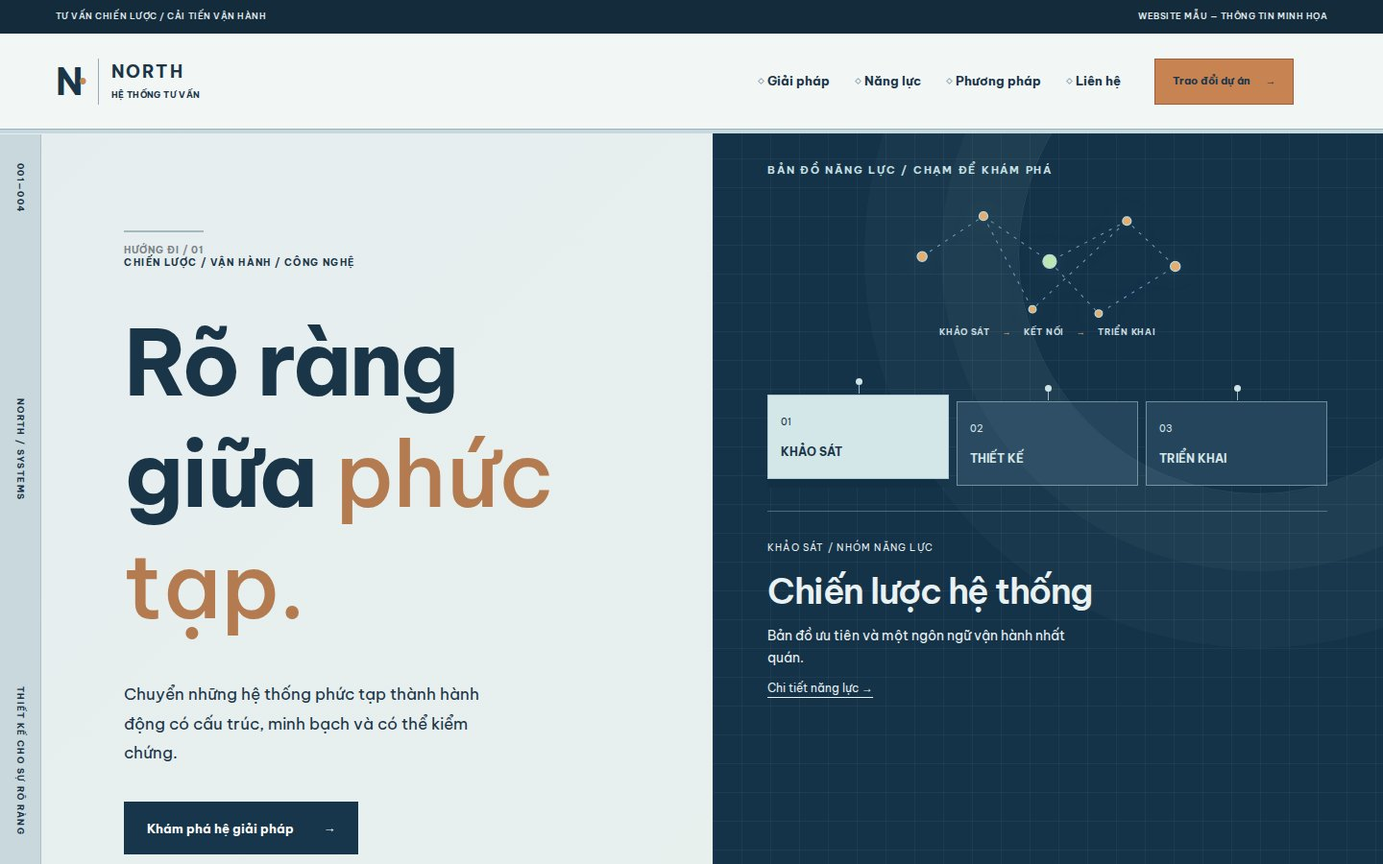
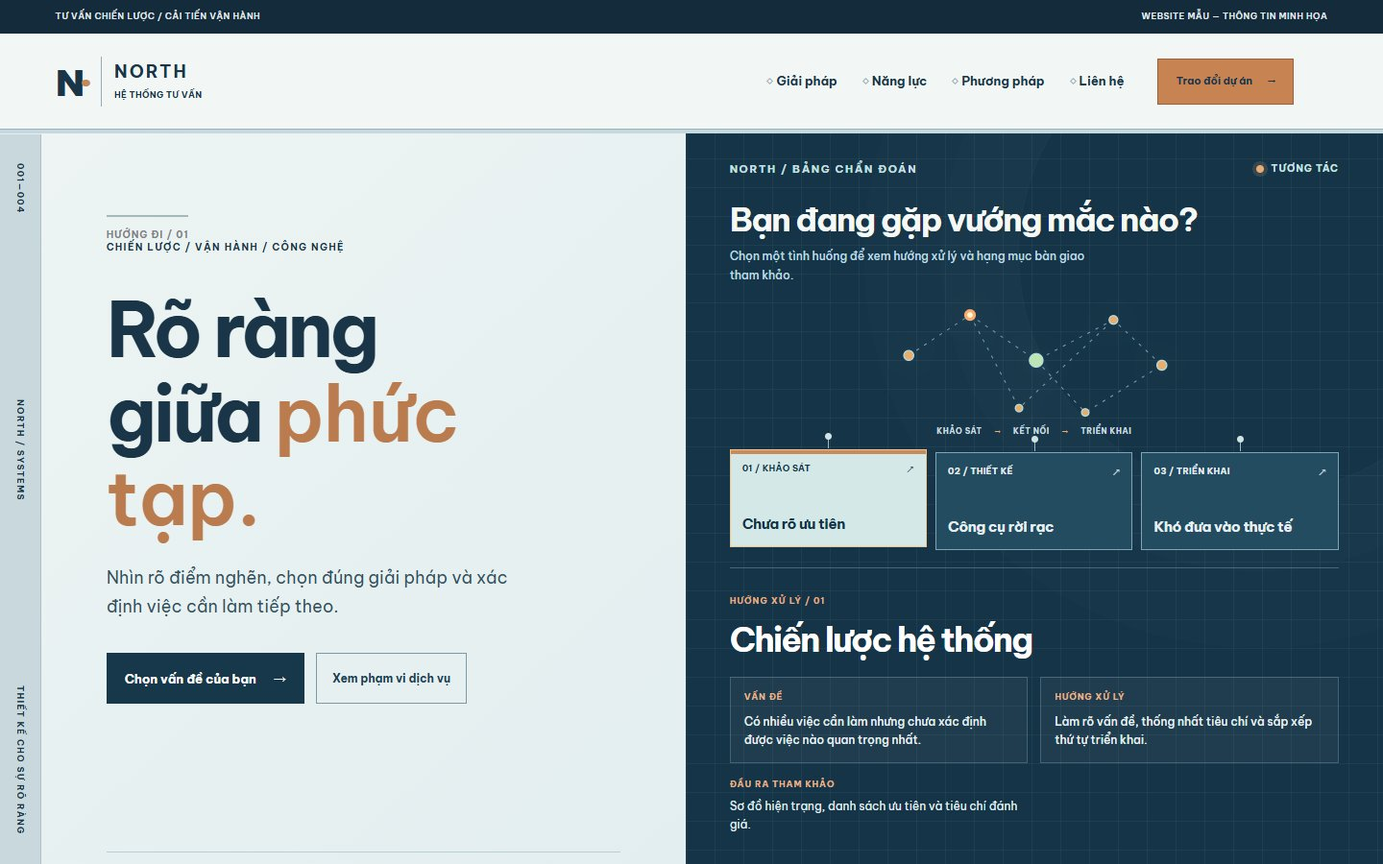
feat(north): interactive business diagnosis with responsive decision canvas

diff --git a/templates/modern-corporate/src/components/Site.tsx b/templates/modern-corporate/src/components/Site.tsx
@@ -5,11 +5,11 @@ import site from "../data/site.json";
 import s from "./North.module.css";
 type Section="home"|"work"|"services"|"about"|"contact"|"detail";
 const services=[
- {name:"Chiến lược hệ thống",tag:"KHẢO SÁT",problem:"Mọi bộ phận đang nhìn cùng một bài toán theo những cách khác nhau.",solution:"Bản đồ ưu tiên và một ngôn ngữ vận hành nhất quán.",deliver:"Bản đồ hiện trạng, khung ưu tiên, hệ tiêu chí."},
- {name:"Vận hành số",tag:"THIẾT KẾ",problem:"Dữ liệu và công cụ chưa tạo thành một quy trình thông suốt.",solution:"Cấu trúc quy trình và giao diện theo từng điểm quyết định.",deliver:"Sơ đồ hành trình, luồng tác vụ và bản thiết kế."},
- {name:"Lộ trình chuyển đổi",tag:"TRIỂN KHAI",problem:"Có nhiều sáng kiến nhưng chưa có nhịp triển khai khả thi.",solution:"Một lộ trình chia theo giai đoạn, vai trò và bằng chứng.",deliver:"Roadmap triển khai, tiêu chuẩn đo lường, kế hoạch chuyển giao."}
+ {name:"Chiến lược hệ thống",tag:"KHẢO SÁT",shortIssue:"Chưa rõ ưu tiên",problem:"Có nhiều việc cần làm nhưng chưa xác định được việc nào quan trọng nhất.",solution:"Làm rõ vấn đề, thống nhất tiêu chí và sắp xếp thứ tự triển khai.",deliver:"Sơ đồ hiện trạng, danh sách ưu tiên và tiêu chí đánh giá."},
+ {name:"Vận hành số",tag:"THIẾT KẾ",shortIssue:"Công cụ rời rạc",problem:"Thông tin nằm ở nhiều công cụ, nhân sự phải nhập lại hoặc hỏi nhau để tiếp tục công việc.",solution:"Thiết kế luồng dữ liệu, giao diện và các điểm bàn giao giữa bộ phận.",deliver:"Sơ đồ quy trình, luồng dữ liệu và nguyên mẫu giao diện."},
+ {name:"Lộ trình chuyển đổi",tag:"TRIỂN KHAI",shortIssue:"Khó đưa vào thực tế",problem:"Kế hoạch đã có nhưng chưa rõ ai thực hiện, làm lúc nào và kiểm tra kết quả ra sao.",solution:"Chia công việc thành các giai đoạn có người phụ trách và tiêu chí nghiệm thu.",deliver:"Lộ trình từng giai đoạn, phân công và kế hoạch kiểm thử."}
 ];
-const steps=[{name:"01 / Thấu hiểu",head:"Định nghĩa đúng vấn đề.",detail:"Khảo sát vận hành, xác định giới hạn và người ra quyết định."},{name:"02 / Đồng bộ",head:"Thống nhất tiêu chí.",detail:"Kết nối mục tiêu, dữ liệu và ưu tiên thành một bản đồ chung."},{name:"03 / Xây dựng",head:"Triển khai theo lớp.",detail:"Xây thử, kiểm chứng, chuẩn hóa và triển khai có kiểm soát."},{name:"04 / Cải tiến",head:"Đo lường và cải tiến.",detail:"Tạo phản hồi để quy trình tiếp tục tiến hóa."}];
+const steps=[{name:"01 / Thấu hiểu",head:"Định nghĩa đúng vấn đề.",detail:"Phỏng vấn người sử dụng, quan sát công việc hiện tại và xác định vấn đề cần giải quyết.",output:"Danh sách vấn đề và sơ đồ hiện trạng."},{name:"02 / Đồng bộ",head:"Thống nhất tiêu chí.",detail:"Thống nhất mục tiêu, trách nhiệm và tiêu chí thành công với các bên liên quan.",output:"Bản đồ ưu tiên và tiêu chí triển khai."},{name:"03 / Xây dựng",head:"Triển khai theo lớp.",detail:"Thử nghiệm một luồng làm việc trước khi mở rộng, đo hiệu quả và xử lý những điểm chưa phù hợp.",output:"Nguyên mẫu và biên bản kiểm thử."},{name:"04 / Cải tiến",head:"Đo lường và cải tiến.",detail:"Theo dõi phản hồi, ghi nhận vấn đề phát sinh và điều chỉnh dựa trên kết quả đo.",output:"Bảng theo dõi và kế hoạch cải tiến."}];
 export function Site({section="home",itemIndex=1,basePath="",assetBase=""}:{section?:Section;itemIndex?:number;basePath?:string;assetBase?:string}){
  const [menu,setMenu]=useState(false);
  const [impactStep,setImpactStep]=useState(0);
@@ -42,7 +42,7 @@ export function Site({section="home",itemIndex=1,basePath="",assetBase=""}:{sect
  <aside className={s.panel} inert={!menu} aria-hidden={!menu}><div className={s.panelTop}>DANH MỤC / NORTH <button type="button" onClick={()=>setMenu(false)} aria-label="Đóng điều hướng"><span aria-hidden="true">×</span></button></div><div>{list.map(([title,url],i)=><Link key={url} onClick={()=>setMenu(false)} href={go(url)}><small>0{i+1}</small>{title}</Link>)}</div><p>Rõ quy trình. Chắc quyết định. Vững bước tiếp theo.</p></aside>
  <main className={s.content}>
  {section==="home"&&<>
-  <section className={s.banner}><div className={s.bannerCopy}><span className={s.eyebrow}>CHIẾN LƯỢC / VẬN HÀNH / CÔNG NGHỆ</span><h1>Rõ ràng<br/>giữa <em>phức tạp.</em></h1><p>Chuyển những hệ thống phức tạp thành hành động có cấu trúc, minh bạch và có thể kiểm chứng.</p><Link className={s.primary} href={go("/services")}>Khám phá hệ giải pháp <span aria-hidden="true">→</span></Link><div className={s.bannerMeta}><b>01</b><span>HIỂU VẤN ĐỀ TRƯỚC KHI GIẢI QUYẾT</span></div></div><div className={s.diagram} data-north-ambient role="group" aria-label="Khám phá các nhóm năng lực"><span className={s.gridCaption}>BẢN ĐỒ NĂNG LỰC / CHẠM ĐỂ KHÁM PHÁ</span><div className={s.systemOrbit} aria-hidden="true"><svg viewBox="0 0 470 210" preserveAspectRatio="xMidYMid meet"><path d="M30 96 L130 30 L238 104 L364 38 L443 112 M130 30 L210 182 L364 38 M238 104 L318 189 L443 112" fill="none" stroke="currentColor" strokeWidth="1.6" strokeDasharray="5 10"/><circle cx="30" cy="96" r="8"/><circle cx="130" cy="30" r="7"/><circle cx="238" cy="104" r="11"/><circle cx="364" cy="38" r="7"/><circle cx="443" cy="112" r="8"/><circle cx="210" cy="182" r="6"/><circle cx="318" cy="189" r="6"/></svg><span>KHẢO SÁT <b>→</b> KẾT NỐI <b>→</b> TRIỂN KHAI</span></div><div className={s.diagramNodes}>{services.map((x,i)=><button aria-pressed={active===i} onClick={()=>setActive(i)} key={x.tag}><small>0{i+1}</small><strong>{x.tag}</strong></button>)}</div><div className={s.diagramContent}><small>{services[active].tag} / NHÓM NĂNG LỰC</small><h2>{services[active].name}</h2><p>{services[active].solution}</p><Link href={go("/services")}>Chi tiết năng lực →</Link></div><div className={s.diagramFoot}>01 — TƯ DUY HỆ THỐNG <span>03 — ĐẦU RA KIỂM CHỨNG</span></div></div></section>
+  <section className={s.banner} id="north-diagnostic"><div className={s.bannerCopy}><span className={s.eyebrow}>CHIẾN LƯỢC / VẬN HÀNH / CÔNG NGHỆ</span><h1>Rõ ràng<br/>giữa <em>phức tạp.</em></h1><p>Nhìn rõ điểm nghẽn, chọn đúng giải pháp và xác định việc cần làm tiếp theo.</p><div className={s.heroActions}><a className={s.primary} href="#north-diagnostic-tool">Chọn vấn đề của bạn <span aria-hidden="true">→</span></a><Link className={s.heroSecondary} href={go("/work")}>Xem phạm vi dịch vụ</Link></div><div className={s.bannerMeta}><b>03</b><span>NHÓM VẤN ĐỀ THƯỜNG GẶP<br/>CHỌN ĐỂ XEM CÁCH XỬ LÝ</span></div></div><div className={s.diagram} id="north-diagnostic-tool" data-north-ambient data-focus={active} role="region" aria-label="Bảng chẩn đoán vận hành NORTH"><div className={s.diagnosticHead}><span className={s.gridCaption}>NORTH / BẢNG CHẨN ĐOÁN</span><span className={s.liveSignal}><i aria-hidden="true"/>TƯƠNG TÁC</span></div><h2 className={s.diagnosticTitle}>Bạn đang gặp vướng mắc nào?</h2><p className={s.diagnosticIntro}>Chọn một tình huống để xem hướng xử lý và hạng mục bàn giao tham khảo.</p><div className={s.systemOrbit} aria-hidden="true"><svg viewBox="0 0 470 210" preserveAspectRatio="xMidYMid meet"><path d="M30 96 L130 30 L238 104 L364 38 L443 112 M130 30 L210 182 L364 38 M238 104 L318 189 L443 112" fill="none" stroke="currentColor" strokeWidth="1.6" strokeDasharray="5 10"/><circle cx="30" cy="96" r="8"/><circle cx="130" cy="30" r="7"/><circle cx="238" cy="104" r="11"/><circle cx="364" cy="38" r="7"/><circle cx="443" cy="112" r="8"/><circle cx="210" cy="182" r="6"/><circle cx="318" cy="189" r="6"/></svg><span>KHẢO SÁT <b>→</b> KẾT NỐI <b>→</b> TRIỂN KHAI</span></div><div className={s.diagramNodes} role="group" aria-label="Chọn vấn đề đang gặp">{services.map((x,i)=><button type="button" aria-controls="north-diagnostic-result" aria-label={"Chọn vấn đề: "+x.shortIssue} aria-pressed={active===i} onClick={()=>setActive(i)} key={x.tag}><small>0{i+1} / {x.tag}</small><strong>{x.shortIssue}</strong><span aria-hidden="true">↗</span></button>)}</div><div className={s.diagramContent} id="north-diagnostic-result" aria-live="polite" aria-atomic="true"><small>HƯỚNG XỬ LÝ / 0{active+1}</small><h3>{services[active].name}</h3><div className={s.beforeAfter}><div><span>VẤN ĐỀ</span><p>{services[active].problem}</p></div><div><span>HƯỚNG XỬ LÝ</span><p>{services[active].solution}</p></div></div><div className={s.diagnosticDeliver}><span>ĐẦU RA THAM KHẢO</span><p>{services[active].deliver}</p></div><Link href={go("/work/"+(active+1))}>Xem chi tiết dịch vụ <span aria-hidden="true">→</span></Link></div><div className={s.diagramFoot}>BẢN MINH HỌA QUY TRÌNH <span>KHÔNG PHẢI TƯ VẤN TỰ ĐỘNG</span></div></div></section>
   <section className={s.impact} data-north-scene><header><small>01 / TƯ DUY VẬN HÀNH</small><h2>Ít nút thắt.<br/>Rõ hướng đi.</h2></header><div className={s.impactBody}>
     <div className={s.impactNarrative} aria-live="polite"><span>TRẠNG THÁI 0{impactStep+1} / 03</span><p>{["Bắt đầu bằng những câu hỏi đúng, dữ liệu có thể kiểm tra và vấn đề thực sự cần giải quyết.","Kết nối từng bộ phận vào một luồng vận hành rõ trách nhiệm và có thể theo dõi.","Đưa giải pháp vào thử nghiệm, đo lường kết quả rồi tiếp tục cải tiến."][impactStep]}</p></div>
     <div className={s.impactJourney} role="group" aria-label="Khám phá ba bước vận hành">{[["01","Khảo sát"],["02","Kết nối"],["03","Triển khai"]].map(([n,label],i)=><button key={n} type="button" aria-pressed={impactStep===i} onClick={()=>setImpactStep(i)}><span>{n}</span><strong>{label}</strong></button>)}</div>
@@ -53,9 +53,9 @@ export function Site({section="home",itemIndex=1,basePath="",assetBase=""}:{sect
  </>}
  {section==="work"&&<section className={s.directory}><div className={s.pageHead}><small>DANH MỤC NĂNG LỰC / 01—03</small><h1>Năng lực<br/>có hệ thống.</h1><p>Chọn một năng lực để xem vấn đề, phương pháp và đầu ra minh họa.</p></div><div className={s.directoryGrid}>{services.map((x,i)=><Link href={go("/work/"+(i+1))} key={x.name}><small>NORTH / 0{i+1}</small><img src={images[i%images.length]} alt={"Minh họa "+x.name}/><h2>{x.name}</h2><p>{x.problem}</p></Link>)}</div></section>}
  {section==="detail"&&<article className={s.case}><div className={s.caseTop}><Link href={go("/work")}>← DANH MỤC NĂNG LỰC</Link><small>TÀI LIỆU THAM KHẢO / {String(itemIndex).padStart(2,"0")}</small></div><h1>{services[(itemIndex-1)%services.length].name}</h1><div className={s.caseGrid}><div><span>VẤN ĐỀ</span><p>{services[(itemIndex-1)%services.length].problem}</p></div><div><span>CÁCH TIẾP CẬN</span><p>{services[(itemIndex-1)%services.length].solution}</p></div><div><span>KẾT QUẢ DỰ KIẾN</span><p>{services[(itemIndex-1)%services.length].deliver}</p></div></div><img className={s.caseImage} src={images[itemIndex%images.length]} alt="Minh họa phương pháp giải quyết"/><p>Đây là hồ sơ mô phỏng phạm vi dịch vụ, không phải case study của khách hàng hoặc dự án đã triển khai.</p></article>}
- {section==="services"&&<section className={s.solutions}><div className={s.pageHead}><small>QUY TRÌNH GIẢI PHÁP / KHÁM PHÁ TỪNG BƯỚC</small><h1>Từ câu hỏi<br/>đến hành động.</h1><p>Chọn một bước của quy trình để tìm hiểu cách tiếp cận.</p></div><div className={s.process}><div className={s.stepButtons}>{steps.map((step,i)=><button aria-pressed={active===i} key={step.name} onClick={()=>setActive(i)}><small>{step.name}</small><span>{step.head}</span></button>)}</div><article className={s.stepDetail}><small>QUY TRÌNH / BƯỚC {String(active+1).padStart(2,"0")}</small><h2>{steps[active].head}</h2><p>{steps[active].detail}</p><div className={s.progressLine}><span style={{width:(active+1)*25+"%"}}/></div><button onClick={()=>setActive((active+1)%4)}>Tiếp bước tiếp theo →</button></article></div></section>}
+ {section==="services"&&<section className={s.solutions}><div className={s.pageHead}><small>QUY TRÌNH GIẢI PHÁP / KHÁM PHÁ TỪNG BƯỚC</small><h1>Từ câu hỏi<br/>đến hành động.</h1><p>Chọn một bước của quy trình để tìm hiểu cách tiếp cận.</p></div><div className={s.process}><div className={s.stepButtons}>{steps.map((step,i)=><button aria-pressed={active===i} key={step.name} onClick={()=>setActive(i)}><small>{step.name}</small><span>{step.head}</span></button>)}</div><article className={s.stepDetail}><small>QUY TRÌNH / BƯỚC {String(active+1).padStart(2,"0")}</small><h2>{steps[active].head}</h2><p>{steps[active].detail}</p><div className={s.stepOutput}><strong>KẾT QUẢ CỦA BƯỚC NÀY</strong><span>{steps[active].output}</span></div><div className={s.progressLine}><span style={{width:(active+1)*25+"%"}}/></div><button onClick={()=>setActive((active+1)%4)}>Tiếp bước tiếp theo →</button></article></div></section>}
  {section==="about"&&<section className={s.principles}><div className={s.pageHead}><small>PHƯƠNG PHÁP NORTH / NGUYÊN TẮC VẬN HÀNH</small><h1>Hệ thống tốt<br/>phải dễ hiểu.</h1><p>Thiết kế cho con người vận hành, không phải cho sơ đồ đẹp trên giấy.</p></div><div className={s.values}><div><b>01</b><h2>Nhìn toàn cảnh.</h2><p>Trước khi tối ưu một điểm, cần hiểu nó đóng vai trò gì trong toàn hệ thống.</p></div><div><b>02</b><h2>Rõ người, rõ việc.</h2><p>Quy trình tốt giúp mọi người nhìn rõ ai làm gì, vì sao và kết quả là gì.</p></div><div><b>03</b><h2>Sẵn sàng thay đổi.</h2><p>Mọi khung vận hành phải đủ rõ để sử dụng, đủ linh hoạt để cải tiến.</p></div></div><img src={images[3]} alt="Ảnh minh họa văn phòng và thiết kế hệ thống"/></section>}
- {section==="contact"&&<section className={s.inquiry}><div className={s.pageHead}><small>TRAO ĐỔI / BẮT ĐẦU TỪ ĐÂY</small><h1>Bắt đầu từ<br/>vấn đề thực.</h1><p>Hãy mô tả nhu cầu. Biểu mẫu này sẽ tạo thư nháp trong ứng dụng email của bạn, không gửi dữ liệu trực tiếp.</p></div><form onSubmit={e=>{e.preventDefault();window.location.href="mailto:hello@example.com?subject="+encodeURIComponent("NORTH / Yêu cầu tư vấn / "+issue)+"&body="+encodeURIComponent(detail)}}><label htmlFor="north-issue">01 / Chọn vấn đề cần giải quyết</label><select id="north-issue" value={issue} onChange={e=>setIssue(e.target.value)}><option>Tổ chức lại quy trình</option><option>Phát triển nền tảng số</option><option>Xây dựng chiến lược chuyển đổi</option></select><label htmlFor="north-detail">02 / Tóm tắt phạm vi</label><textarea required minLength={10} value={detail} onChange={e=>setDetail(e.target.value)} id="north-detail" placeholder="Mục tiêu, ràng buộc, bối cảnh và thời gian dự kiến…"/><button>Tạo thư trao đổi <span aria-hidden="true">→</span></button><p>Không gửi dữ liệu tới máy chủ demo.</p></form></section>}
+ {section==="contact"&&<section className={s.inquiry}><div className={s.pageHead}><small>TRAO ĐỔI / BẮT ĐẦU TỪ ĐÂY</small><h1>Bắt đầu từ<br/>vấn đề thực.</h1><p>Hãy chọn vấn đề và mô tả nhu cầu. Trang sẽ tạo thư nháp để bạn chọn người nhận và tự gửi.</p></div><form onSubmit={e=>{e.preventDefault();window.location.href="mailto:?subject="+encodeURIComponent("NORTH / Yêu cầu tư vấn / "+issue)+"&body="+encodeURIComponent(detail+"\n\n— Nội dung được soạn từ website demo NORTH. Bạn tự chọn người nhận trước khi gửi.")}}><label htmlFor="north-issue">01 / Chọn vấn đề cần giải quyết</label><select id="north-issue" value={issue} onChange={e=>setIssue(e.target.value)}><option>Tổ chức lại quy trình</option><option>Phát triển nền tảng số</option><option>Xây dựng chiến lược chuyển đổi</option></select><label htmlFor="north-detail">02 / Tóm tắt phạm vi</label><textarea required minLength={10} value={detail} onChange={e=>setDetail(e.target.value)} id="north-detail" placeholder="Mục tiêu, ràng buộc, bối cảnh và thời gian dự kiến…"/><button>Tạo thư trao đổi <span aria-hidden="true">→</span></button><p>Không gửi dữ liệu tới máy chủ demo.</p></form></section>}
  </main>
  <footer className={s.directoryFooter}><div className={s.footerIntro}><span>{site.brand} / HỆ THỐNG TƯ VẤN</span><h2>Định hình<br/>bước tiếp theo.</h2><Link href={go("/contact")}>Bắt đầu trao đổi →</Link></div><div className={s.footerLower}><div><b>{site.brand}.</b><p>Rõ ràng / Tiến bộ / Trách nhiệm</p></div><div><small>DANH MỤC</small>{list.map(([x,url])=><Link key={url} href={go(url)}>{x}</Link>)}</div><div><small>THÔNG TIN</small><p>Website ý tưởng minh họa trong thư viện Athena Studio; không phải thành tích thực tế của khách hàng.</p></div></div><small>© 2026 {site.brand} / BẢN MẪU</small></footer>
  </div>;

diff --git a/templates/modern-corporate/src/components/North.module.css b/templates/modern-corporate/src/components/North.module.css
@@ -121,3 +121,113 @@
 @media(max-width:850px){.impactBody{grid-template-columns:1fr}.impactNarrative p{min-height:0}.impactMap{grid-row:2;min-height:130px}.impactJourney{grid-row:3}}
 @media(max-width:450px){.impactJourney button{padding:11px 7px;min-height:84px}.impactJourney button strong{font-size:12px}.impactBody{gap:24px}}
 @media(prefers-reduced-motion:reduce){.impactJourney button,.mapTrack:before,.mapTrack span{transition:none!important}}
+
+/* NORTH / Decision Canvas — scoped refinement; preserves independent corporate DNA. */
+.north .banner{grid-template-columns:minmax(0,.96fr) minmax(0,1.04fr);min-height:710px;background:linear-gradient(137deg,#edf4f3 0%,#e3eef0 63%,#dae7e8 100%)}
+.north .bannerCopy{padding:clamp(45px,6.2vw,94px) clamp(30px,4.7vw,72px) 50px;min-width:0}
+.north .banner h1{font-size:clamp(53px,5.5vw,88px);letter-spacing:-.047em;line-height:1.105;margin:36px 0 24px;max-width:9.6ch;text-wrap:balance}
+.north .bannerCopy>p{font-size:clamp(15px,1.25vw,18px);line-height:1.7;max-width:37ch;margin:0;color:#315062}
+.north .banner h1 em{color:#ba7b4f;font-style:normal;font-weight:600}
+.north .heroActions{display:flex;flex-wrap:wrap;align-items:center;gap:12px;margin-top:32px}
+.north .heroActions .primary{margin:0;min-height:53px;padding:15px 19px;background:#17374b;color:#fff!important;transition:background .18s,transform .18s;gap:18px}
+.north .heroActions .primary:hover{background:#2b5d72;transform:translateY(-2px)}
+.north .heroSecondary{display:inline-flex;align-items:center;justify-content:center;min-height:53px;padding:14px 16px;border:1px solid #7b9aa8;background:#e6f0f0;color:#1d4054!important;font-size:12px;font-weight:750;transition:background .18s}
+.north .heroSecondary:hover{background:#d1e5e8}
+.north .bannerMeta{width:100%;border-top:1px solid #bbced1;margin-top:auto;padding-top:34px;color:#476675}
+.north .bannerMeta b{font:800 36px/1 "Be Vietnam Pro",sans-serif;color:#ad754d}
+.north .bannerMeta span{font-size:10px;line-height:1.65}
+.north .diagram{padding:33px clamp(22px,3.2vw,52px) 27px;background:#153447;min-width:0;scroll-margin-top:16px}
+.north .diagram:after{opacity:.35}
+.north .diagnosticHead{display:flex;justify-content:space-between;align-items:center;gap:14px;position:relative;z-index:1}
+.north .liveSignal{display:inline-flex;align-items:center;gap:8px;color:#c9e6e5;font-size:10px;letter-spacing:.1em;font-weight:750}
+.north .liveSignal i{height:8px;width:8px;background:#e2ad78;display:block;border-radius:50%;box-shadow:0 0 0 4px #e2ad7827}
+.north .diagnosticTitle{font:750 clamp(23px,2.4vw,34px)/1.24 "Be Vietnam Pro",sans-serif;letter-spacing:-.045em;margin:23px 0 7px;position:relative;z-index:1;color:#f5f8f5}
+.north .diagnosticIntro{color:#bfdae2;font:450 12px/1.7 "Be Vietnam Pro",sans-serif;max-width:48ch;margin:0;position:relative;z-index:1}
+.north .systemOrbit{min-height:0;margin:12px auto 0;width:100%;max-width:440px}
+.north .systemOrbit svg{width:100%;max-height:134px;filter:drop-shadow(0 0 12px #8bc3cc28)}
+.north .systemOrbit span{font-size:8px;margin:0}
+.north .systemOrbit circle{transition:fill .25s,stroke .25s;animation-duration:4.6s}
+.north .diagram[data-focus="0"] .systemOrbit circle:nth-of-type(2),
+.north .diagram[data-focus="1"] .systemOrbit circle:nth-of-type(3),
+.north .diagram[data-focus="2"] .systemOrbit circle:nth-of-type(4){fill:#fff4d4;stroke:#f6ac6f;stroke-width:5}
+.north .diagramNodes{display:grid;grid-template-columns:repeat(3,minmax(0,1fr));gap:9px;margin:17px 0 18px;z-index:1}
+.north .diagramNodes button{position:relative;display:flex;flex-direction:column;align-items:flex-start;justify-content:space-between;min-width:0;min-height:102px;padding:13px 12px;background:#234c61;border:1px solid #7da5b7;color:#e6eff2;box-shadow:none;transform:none;transition:background .22s,border-color .22s,transform .22s}
+.north .diagramNodes button:hover{background:#30627a;border-color:#b6e1e3;transform:translateY(-3px)}
+.north .diagramNodes button[aria-pressed="true"]{background:#d4e8e7;border-color:#f2c58e;color:#123248;box-shadow:inset 0 4px #c88b5c;transform:translateY(-3px)}
+.north .diagramNodes button small{font:750 9px/1.4 "Be Vietnam Pro",sans-serif;letter-spacing:.04em}
+.north .diagramNodes button strong{font:750 clamp(12px,1.15vw,15px)/1.4 "Be Vietnam Pro",sans-serif;letter-spacing:-.025em;text-align:left}
+.north .diagramNodes button>span{position:absolute;right:12px;top:10px;font-size:12px;opacity:.8}
+.north .diagramContent{padding:20px 0 2px;border-top:1px solid #7b9daa7b;min-height:0;z-index:1}
+.north .diagramContent>small{font:750 9px/1.5 "Be Vietnam Pro",sans-serif;letter-spacing:.12em;color:#e2af85}
+.north .diagramContent h3{font:750 clamp(25px,2.45vw,35px)/1.2 "Be Vietnam Pro",sans-serif;letter-spacing:-.05em;margin:8px 0 18px;color:#fff}
+.north .beforeAfter{display:grid;grid-template-columns:1fr 1fr;gap:13px}
+.north .beforeAfter>div{background:#ffffff0b;border:1px solid #8badbf55;padding:13px 14px;min-width:0}
+.north .beforeAfter span,.north .diagnosticDeliver>span{display:block;font:800 9px/1.6 "Be Vietnam Pro",sans-serif;letter-spacing:.1em;color:#e6b488}
+.north .beforeAfter p{font:450 12px/1.65 "Be Vietnam Pro",sans-serif;color:#e6f0f1;margin:8px 0 0;max-width:none}
+.north .diagnosticDeliver{padding:11px 0;margin-top:4px}
+.north .diagnosticDeliver p{margin:5px 0 0;font-size:12px;color:#e0eff0;line-height:1.6}
+.north .diagramContent>a{display:inline-flex;align-items:center;gap:15px;min-height:42px;border-bottom:1px solid #e2b687;text-decoration:none;font-size:12px;font-weight:750;color:#fff}
+.north .diagramContent>a:hover{color:#f4c28f}
+.north .diagramFoot{margin-top:14px;padding-top:13px;position:relative;color:#a7c8d2;gap:14px;flex-wrap:wrap}
+.north .stepOutput{margin-top:35px;padding:19px;border:1px solid #9cbcc1b5;background:#ffffff14;display:grid;gap:9px;width:100%}
+.north .stepOutput strong{color:#e1b584;font-size:10px;letter-spacing:.08em}
+.north .stepOutput span{font-size:14px;line-height:1.6}
+.north .stepDetail h2{margin:40px 0 20px}
+.north .inquiry form{background:linear-gradient(155deg,#fff,#e8f2f1);border-top:4px solid #bd8259}
+.north .inquiry form button{transition:background .18s}
+.north .inquiry form button:hover{background:#315d70}
+@media(max-width:1120px){
+ .north .banner h1{font-size:clamp(48px,5.2vw,71px)}
+ .north .diagram{padding-inline:24px}
+ .north .beforeAfter{gap:7px}
+ .north .beforeAfter>div{padding:10px}
+}
+@media(max-width:850px){
+ .north .banner{grid-template-columns:minmax(0,1fr);min-height:0}
+ .north .bannerCopy{padding:55px 6vw 35px}
+ .north .banner h1{font-size:clamp(52px,9vw,78px);max-width:none}
+ .north .bannerMeta{margin-top:34px;padding-top:19px}
+ .north .diagram{padding:33px 6vw 31px}
+ .north .systemOrbit{max-width:490px}
+ .north .systemOrbit svg{max-height:158px}
+ .north .diagramNodes{margin:12px 0 22px}
+ .north .diagramNodes button{min-height:93px}
+ .north .beforeAfter>div{padding:16px}
+}
+@media(max-width:600px){
+ .north .bannerCopy{padding:36px 6vw 24px}
+ .north .bannerCopy:before{font-size:9px;padding-top:8px}
+ .north .eyebrow{font-size:9px;line-height:1.7;margin-top:17px}
+ .north .banner h1{font-size:clamp(44px,10.9vw,64px);line-height:1.11;margin:21px 0 17px;letter-spacing:-.045em}
+ .north .bannerCopy>p{font-size:15px;line-height:1.65}
+ .north .heroActions{gap:10px;margin-top:23px}
+ .north .heroActions .primary{padding:12px 14px;min-height:48px}
+ .north .heroSecondary{min-height:48px;padding:12px 13px}
+ .north .bannerMeta{display:none}
+ .north .diagram{padding:29px 6vw}
+ .north .diagnosticTitle{font-size:23px;margin:15px 0 7px}
+ .north .diagnosticIntro{font-size:12px}
+ .north .systemOrbit{margin:7px auto}
+ .north .systemOrbit svg{max-height:110px}
+ .north .systemOrbit span{font-size:7px}
+ .north .diagramNodes{gap:7px;margin:12px 0 18px}
+ .north .diagramNodes button{padding:10px 8px;min-height:100px;gap:8px}
+ .north .diagramNodes button small{font-size:8px;max-width:90%}
+ .north .diagramNodes button strong{font-size:11px}
+ .north .diagramNodes button>span{right:6px;top:6px}
+ .north .diagramContent h3{font-size:26px}
+ .north .beforeAfter{grid-template-columns:1fr;gap:8px}
+ .north .beforeAfter>div{padding:12px 13px}
+ .north .beforeAfter p{margin:5px 0 0;font-size:12px}
+ .north .diagramFoot{font-size:8px}
+ .north .stepDetail h2{margin:22px 0 18px}
+}
+@media(max-width:350px){
+ .north .heroActions .primary,.north .heroSecondary{width:100%;justify-content:center}
+ .north .diagramNodes button small{font-size:7px}
+ .north .diagramNodes button strong{font-size:10px}
+ .north .liveSignal{font-size:8px}
+}
+@media(prefers-reduced-motion:reduce){
+ .north .heroActions .primary,.north .heroSecondary,.north .diagramNodes button,.north .systemOrbit circle,.north .inquiry form button{transition:none!important;animation:none!important}
+}
